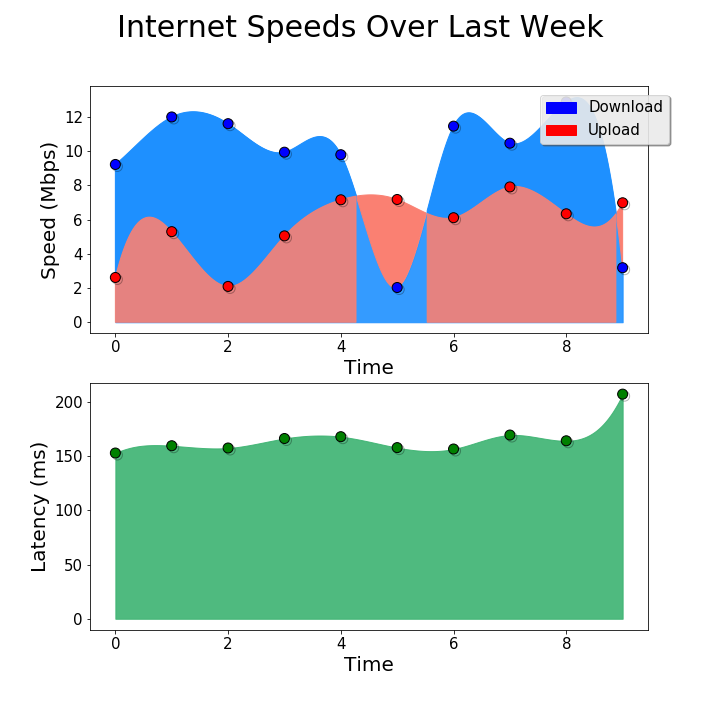
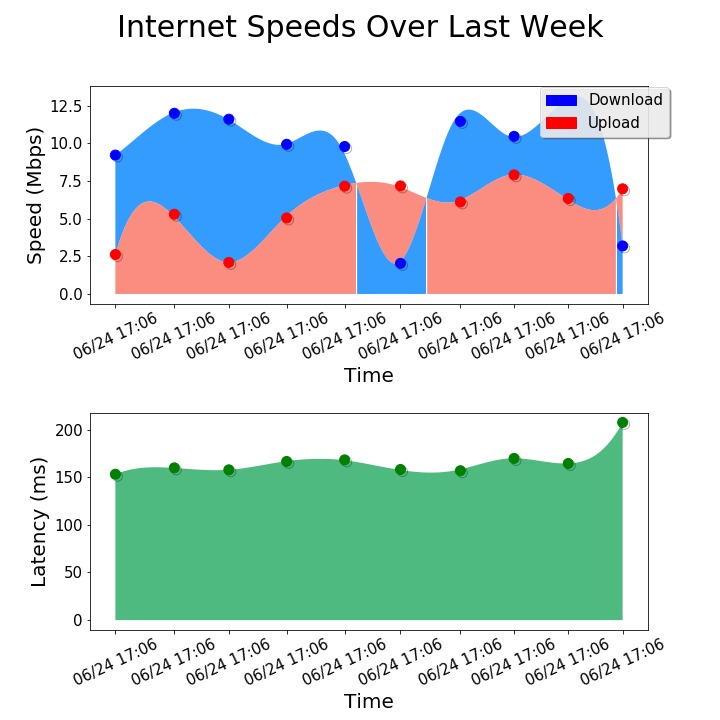
it works with dates and shading

diff --git a/SpeedTestParser3.py b/SpeedTestParser3.py
@@ -1,0 +1,121 @@
+# -*- coding: utf-8 -*-
+"""
+Created on Thu Jun 27 09:16:26 2019
+
+@author: tajgo
+@author: cyberpizza team
+Some code for graphing and calculating statistics taken from https://pundit.pratt.duke.edu/wiki/
+Date graphing and filling taken from https://stackoverflow.com/questions/29329725/pandas-and-matplotlib-fill-between-vs-datetime64/29329823#29329823
+"""
+
+import pandas as pd
+import numpy as np
+import matplotlib.pyplot as plt
+import matplotlib.patches as mpatches
+import matplotlib.patheffects as path_effects
+from matplotlib.dates import DateFormatter
+from matplotlib.dates import datetime as dt ###
+from scipy.interpolate import spline
+import dateutil.parser
+
+# %% Prepare data   
+# Load data from Sample_to_parse.txt
+speed_data = np.loadtxt('sample_to_parse.txt', skiprows=4, usecols=(4,5,7)) #missing date ()
+# Copy data from each column into new variables
+down_speed = speed_data[:, 0].copy()
+down_speed = down_speed / 1000000
+up_speed = speed_data[:, 1].copy()
+up_speed = up_speed / 1000000
+latency = speed_data[:, 2].copy()
+num_points=500
+num_points2=(int)(num_points * (down_speed.size-1)/down_speed.size)
+time_of_test=np.arange(0, (int)(down_speed.size), 1)
+time_model = np.linspace(np.min(time_of_test), np.max(time_of_test), num_points2)
+
+# Read dates
+f=open('sample_to_parse.txt', 'r')
+lines = f.readlines()
+time_data = []
+time_of_test1 = []
+time_of_test2 = []
+for x in range(4, len(lines) - 1):
+    time_data.append((lines[x][100:126]))
+    new_date=dateutil.parser.parse(lines[x][100:126])
+    time_of_test1.append(new_date)
+    #time_of_test2.append(new_date.year * 10000000000 + new_date.month * 100000000 + new_date.day * 1000000 + new_date.hour * 10000 + new_date.minute * 100 + new_date.second)
+f.close()
+
+
+# %% Generate estimates and model
+down_model = spline(time_of_test,down_speed,time_model)
+up_model = spline(time_of_test,up_speed,time_model)
+lat_model = spline(time_of_test,latency,time_model)
+
+# %% Calculate data and statistics
+up_avg = np.mean(up_speed)
+down_avg = np.mean(down_speed)
+lat_avg = np.mean(latency)
+
+# %% Format data with pandas
+
+oldest = min(time_of_test1)
+youngest = max(dt for dt in time_of_test1)
+date_model = pd.date_range(oldest, youngest, periods=num_points2)
+data = pd.DataFrame({'Download': down_model, 'Upload': up_model, 'Latency': lat_model, 'Time': date_model})
+multiplier = (int)(num_points2/len(time_data))
+time_stretch = [val for val in time_of_test1 for _ in range(multiplier)]
+down_stretch = [val for val in down_speed for _ in range(multiplier)]
+up_stretch = [val for val in up_speed for _ in range(multiplier)]
+lat_stretch = [val for val in latency for _ in range(multiplier)]
+msize=10
+name1="Download Speed"
+name2="Upload Speed"
+name3="Latency"
+for k in time_of_test1:
+    time_of_test2.append(k.strftime('%m/%d %H:%m'))
+
+# %%Plot Graphs of Data
+fig, axs = plt.subplots(2, 1,figsize=(10, 10))
+plt.rc('xtick',labelsize=15)
+plt.rc('ytick',labelsize=15)
+fig.subplots_adjust(hspace=0.5)
+plt.subplot(211)
+fig.suptitle("Internet Speeds Over Last Week", fontsize=30)
+plt.grid(False)
+
+#Download and Upload Speed
+plt.plot_date(time_stretch, down_stretch, 'bo', markevery=multiplier, ms=msize, path_effects=[path_effects.SimpleLineShadow(),path_effects.Normal()])
+plt.plot_date(time_stretch, up_stretch, 'ro', markevery=multiplier, ms=msize, path_effects=[path_effects.SimpleLineShadow(),path_effects.Normal()])
+#plt.plot_date(data['Time'], data['Download'], 'b-')
+#plt.plot_date(data['Time'], data['Upload'], 'r-')
+
+#Shading
+d = data['Time'].values
+plt.fill_between(d, data['Download'], data['Upload'], where=data['Download'] >= data['Upload'],facecolor='dodgerblue', alpha=0.9, interpolate=True)
+plt.fill_between(d, data['Upload'], y2=0, where=data['Download'] >= data['Upload'],facecolor='salmon', alpha=0.9, interpolate=True)
+plt.fill_between(d, data['Download'], data['Upload'], where=data['Download'] < data['Upload'],facecolor='salmon', alpha=0.9, interpolate=True)
+plt.fill_between(d, data['Download'], y2=0, where=data['Download'] < data['Upload'],facecolor='dodgerblue', alpha=0.9, interpolate=True)
+
+blue_patch = mpatches.Patch(color='blue', label=name1)
+red_patch = mpatches.Patch(color='red', label=name2)
+plt.xlabel("Time", fontsize=20)
+plt.ylabel("Speed (Mbps)", fontsize=20)
+plt.figlegend([blue_patch, red_patch], ('Download', 'Upload'), loc=(0.75, 0.81), fancybox=True, framealpha=0.8, shadow=True, fontsize=15)
+
+plt.xticks(rotation=25, color="k")
+plt.xticks(time_of_test1, time_of_test2)
+
+#Latency Plot
+plt.subplot(212)
+plt.plot_date(time_stretch, lat_stretch, 'go', markevery=multiplier, ms=msize, path_effects=[path_effects.SimpleLineShadow(),path_effects.Normal()])
+plt.fill_between(d, data['Latency'], y2=0, facecolor='mediumseagreen', alpha=0.9, interpolate=True)
+plt.xlabel("Time", fontsize=20)
+
+plt.xticks(rotation=25, color="k")
+plt.xticks(time_of_test1, time_of_test2)
+plt.ylabel("Latency (ms)", fontsize=20)
+
+# %% Save and show figure
+plt.savefig('net_speed_plot.png')
+plt.show()
+
